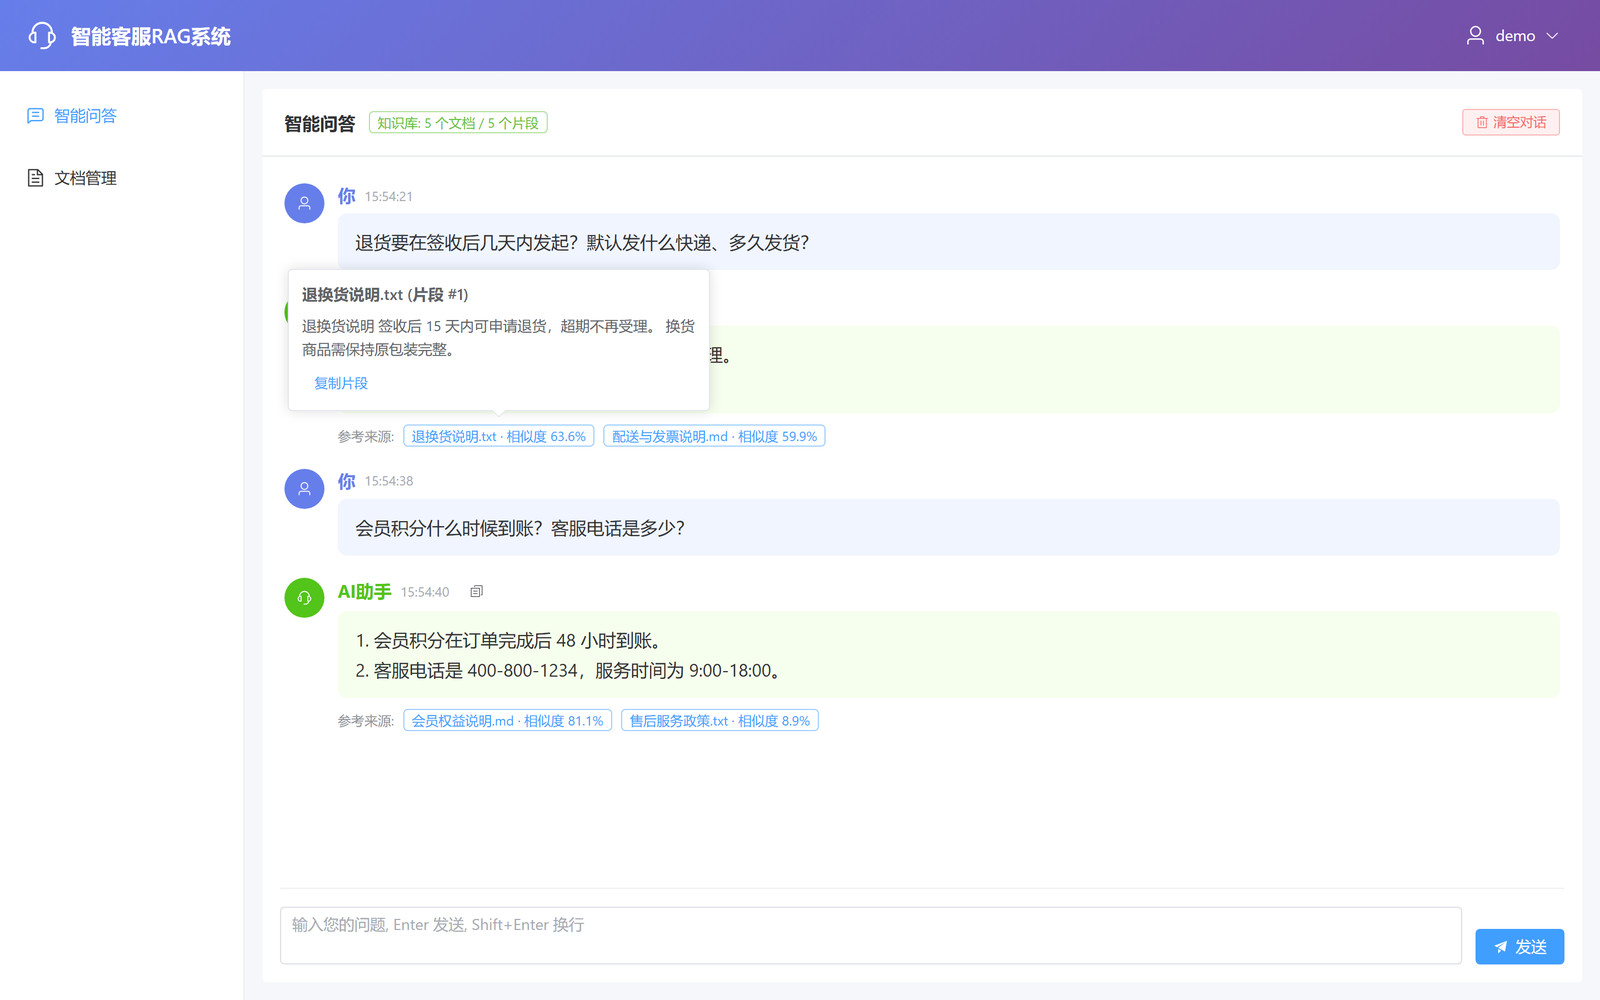
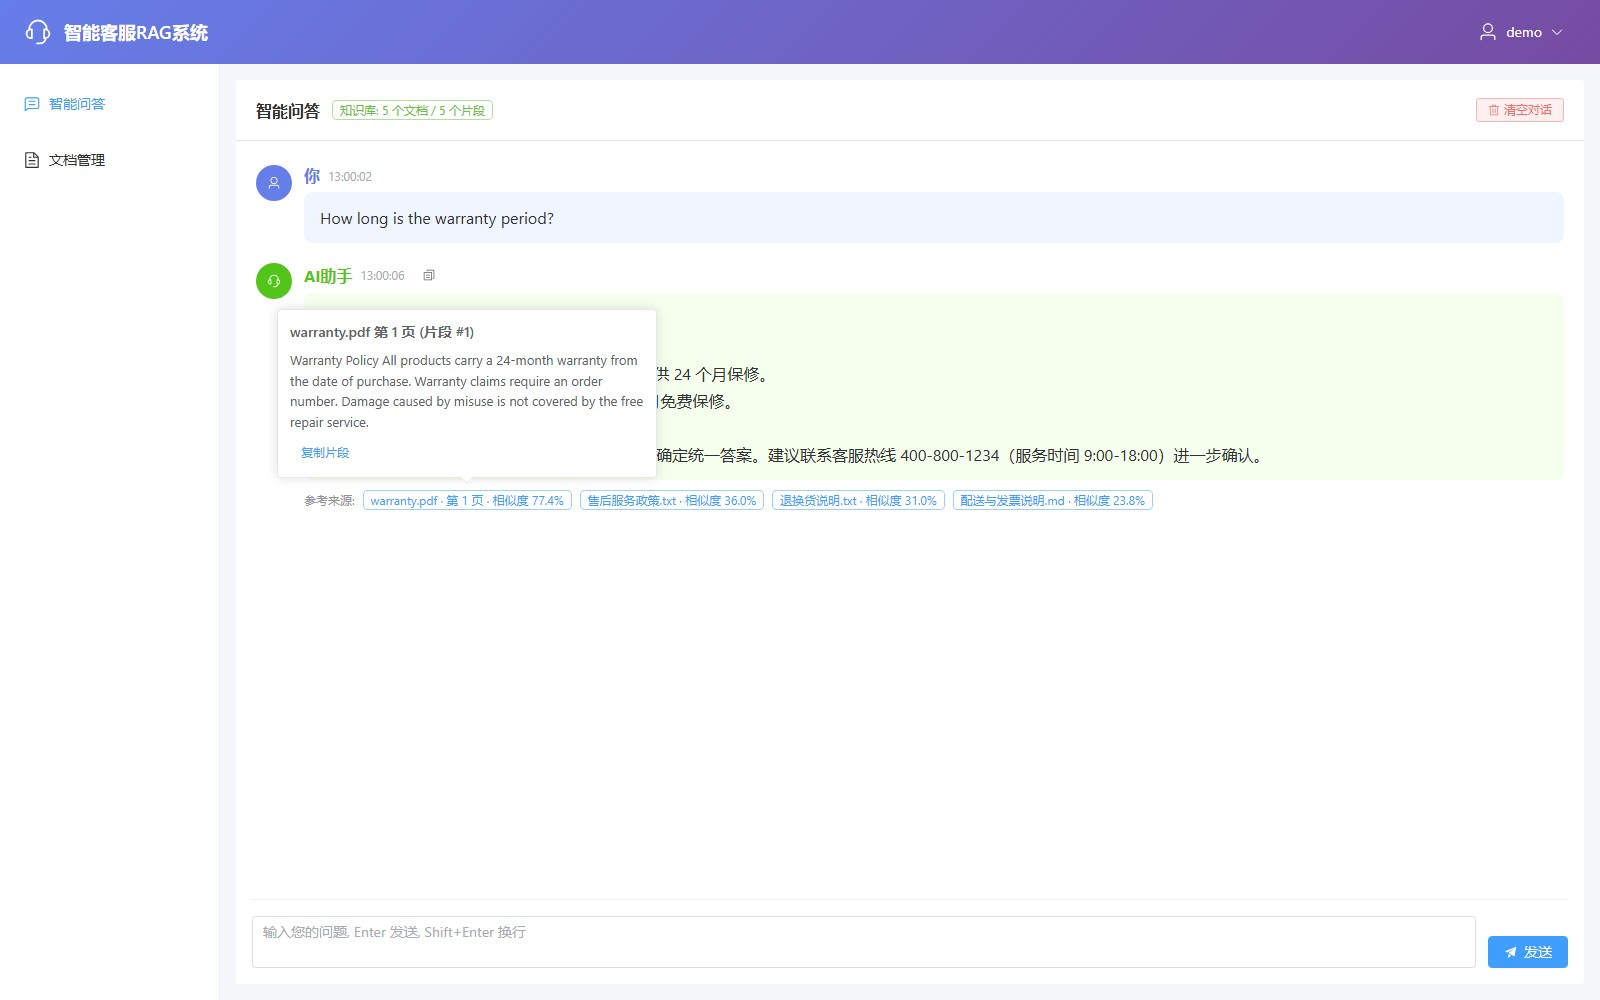
feat(rag): 片段保留页码元数据, 检索结果可回溯原文位置(PDF 按页解析与切分); 来源标签显示第 N 页

diff --git a/frontend/src/components/ChatInterface.vue b/frontend/src/components/ChatInterface.vue
@@ -69,12 +69,12 @@
               >
                 <template #reference>
                   <el-tag type="primary" effect="plain" size="small" class="source-tag">
-                    {{ source.filename || '文档片段' }} · 相似度 {{ (source.score * 100).toFixed(1) }}%
+                    {{ source.filename || '文档片段' }}<template v-if="source.page"> · 第 {{ source.page }} 页</template> · 相似度 {{ (source.score * 100).toFixed(1) }}%
                   </el-tag>
                 </template>
                 <div class="source-popover">
                   <div class="source-popover-title">
-                    {{ source.filename || '文档片段' }} (片段 #{{ (source.chunk_index || 0) + 1 }})
+                    {{ source.filename || '文档片段' }}<template v-if="source.page"> 第 {{ source.page }} 页</template> (片段 #{{ (source.chunk_index || 0) + 1 }})
                   </div>
                   <div class="source-popover-text">{{ source.text }}</div>
                   <el-button text type="primary" size="small" @click="handleCopy(source.text)">复制片段</el-button>

diff --git a/backend/app/services/rag.py b/backend/app/services/rag.py
@@ -8,7 +8,7 @@ import math
 import threading
 import uuid
 from collections import Counter
-from typing import Dict, List, Optional
+from typing import Dict, List, Optional, Tuple
 
 from app.core.config import settings
 from app.services.embeddings import BaseEmbeddings, build_embeddings
@@ -127,26 +127,38 @@ class RAGService:
     # ==================== 写入 ====================
     def add_document(self, text: str, metadata: dict) -> List[str]:
         """切分、向量化并写入文档, 返回片段ID列表"""
+        return self.add_document_pages([(None, text)], metadata)
+
+    def add_document_pages(
+        self, pages: List[Tuple[Optional[int], str]], metadata: dict
+    ) -> List[str]:
+        """
+        按页切分、向量化并写入文档, 返回片段ID列表。
+        片段不跨页, 因此每块都能精确对应一个页码(page), 便于检索结果回溯原文位置。
+        """
         self.ensure_ready()
         assert self.embeddings is not None and self.vector_store is not None
 
-        chunks = self.splitter.split_text(text)
-        if not chunks:
+        per_chunk: List[Tuple[Optional[int], str]] = []
+        for page_number, page_text in pages:
+            if not page_text or not page_text.strip():
+                continue
+            for chunk in self.splitter.split_text(page_text):
+                per_chunk.append((page_number, chunk))
+
+        if not per_chunk:
             raise ValueError("文档内容为空，无法切分")
 
+        chunks = [chunk for _, chunk in per_chunk]
         vectors = self.embeddings.embed_documents(chunks)
         ids = [str(uuid.uuid4()) for _ in chunks]
-        payloads = []
         total = len(chunks)
-        for index, (chunk, _vector) in enumerate(zip(chunks, vectors)):
-            payloads.append({
-                "text": chunk,
-                "metadata": {
-                    **metadata,
-                    "chunk_index": index,
-                    "chunk_total": total,
-                },
-            })
+        payloads = []
+        for index, (page_number, chunk) in enumerate(per_chunk):
+            chunk_metadata = {**metadata, "chunk_index": index, "chunk_total": total}
+            if page_number is not None:
+                chunk_metadata["page"] = int(page_number)
+            payloads.append({"text": chunk, "metadata": chunk_metadata})
 
         self.vector_store.upsert(ids, vectors, payloads)
         self._rebuild_lexical_index()
@@ -254,6 +266,7 @@ class RAGService:
                     "vector_score": round(float(vector_score), 4),
                     "keyword_score": round(float(keyword_score), 4),
                     "filename": metadata.get("source", ""),
+                    "page": metadata.get("page"),
                     "chunk_index": int(metadata.get("chunk_index", 0)),
                     "text": clean_preview(document.get("text", ""), 300),
                     "full_text": document.get("text", ""),
@@ -317,6 +330,7 @@ class RAGService:
                 "score": item["score"],
                 "filename": item.get("filename", ""),
                 "text": item.get("text", ""),
+                "page": item.get("page"),
                 "chunk_index": item.get("chunk_index", 0),
             }
             for item in results

diff --git a/backend/app/services/document.py b/backend/app/services/document.py
@@ -119,17 +119,23 @@ class DocumentService:
         return file_path, file_hash
 
     # ==================== 解析 ====================
-    async def parse_pdf(self, file_path: Path) -> str:
-        def _read() -> str:
-            parts = []
+    async def parse_pdf_pages(self, file_path: Path) -> List[Tuple[int, str]]:
+        """按页解析 PDF, 返回 [(页码, 文本), ...], 页码从 1 开始"""
+
+        def _read() -> List[Tuple[int, str]]:
+            pages: List[Tuple[int, str]] = []
             with pymupdf.open(file_path) as document:
-                for page in document:
-                    parts.append(page.get_text())
-            return "\n".join(parts)
+                for number, page in enumerate(document, start=1):
+                    pages.append((number, page.get_text()))
+            return pages
 
         import asyncio
 
         return await asyncio.to_thread(_read)
+
+    async def parse_pdf(self, file_path: Path) -> str:
+        pages = await self.parse_pdf_pages(file_path)
+        return "\n".join(text for _, text in pages)
 
     async def parse_txt(self, file_path: Path) -> str:
         for encoding in ("utf-8", "utf-8-sig", "gb18030", "latin-1"):
@@ -142,18 +148,27 @@ class DocumentService:
         async with aiofiles.open(file_path, "r", encoding="utf-8", errors="ignore") as fp:
             return await fp.read()
 
-    async def parse_document(self, file_path: Path, filename: str) -> str:
+    async def parse_document_pages(
+        self, file_path: Path, filename: str
+    ) -> List[Tuple[Optional[int], str]]:
+        """
+        解析文档并保留页码: PDF 返回 [(页码, 文本), ...]; TXT/MD 无页概念, 返回 [(None, 文本)]。
+        """
         extension = self._get_file_extension(filename)
         if extension == ".pdf":
-            text = await self.parse_pdf(file_path)
+            pages: List[Tuple[Optional[int], str]] = list(await self.parse_pdf_pages(file_path))
         elif extension in (".txt", ".md"):
-            text = await self.parse_txt(file_path)
+            pages = [(None, await self.parse_txt(file_path))]
         else:
             raise ValueError(f"不支持的文件格式: {extension}")
 
-        if not text or not text.strip():
+        if not any(text and text.strip() for _, text in pages):
             raise ValueError("文档解析结果为空，请确认文件内容")
-        return text
+        return pages
+
+    async def parse_document(self, file_path: Path, filename: str) -> str:
+        pages = await self.parse_document_pages(file_path, filename)
+        return "\n".join(text for _, text in pages)
 
     # ==================== 记录管理 ====================
     def register_document(

diff --git a/backend/app/api/documents.py b/backend/app/api/documents.py
@@ -66,7 +66,7 @@ async def upload_document(
         return _to_response(existing)
 
     try:
-        text = await document_service.parse_document(file_path, filename)
+        pages = await document_service.parse_document_pages(file_path, filename)
     except ValueError as exc:
         await run_in_threadpool(document_service.delete_path, file_path)
         raise HTTPException(status_code=status.HTTP_400_BAD_REQUEST, detail=str(exc)) from exc
@@ -86,7 +86,7 @@ async def upload_document(
     }
 
     try:
-        chunk_ids = await run_in_threadpool(rag_service.add_document, text, metadata)
+        chunk_ids = await run_in_threadpool(rag_service.add_document_pages, pages, metadata)
     except Exception:  # noqa: BLE001
         await run_in_threadpool(document_service.delete_path, file_path)
         logger.exception("文档入库失败")

diff --git a/backend/app/models/schemas.py b/backend/app/models/schemas.py
@@ -36,6 +36,7 @@ class SourceItem(BaseModel):
     score: float
     filename: str = ""
     text: str = ""
+    page: Optional[int] = None
     chunk_index: int = 0
 
 

diff --git a/README.md b/README.md
@@ -12,7 +12,7 @@
 
 ![智能问答](docs/screenshots/03-chat.jpg)
 
-**引用溯源** —— 鼠标悬停来源标签即可查看原文片段, 支持一键复制
+**引用溯源** —— 来源标签标注「文件名 · 第 N 页 · 相似度」, 鼠标悬停查看原文片段, 支持一键复制
 
 ![引用来源](docs/screenshots/04-source-popover.jpg)
 
@@ -26,10 +26,11 @@
   - 登录支持「记住我」: 勾选写入 `localStorage`(关浏览器仍登录), 不勾选写入 `sessionStorage`(关标签页即失效)
   - 注册页可查看「用户协议」与「隐私政策」完整文本
 - 文档管理: 上传 PDF / TXT / MD, 内容去重, 列表 / 删除 / 一键清空(**按用户隔离**)
-  - 前端校验文件类型与大小(超 10MB 或非 PDF/TXT/MD 直接拦截并提示), 后端二次校验
+  - PDF **按页解析与切分**, 每个片段记录所在页码; TXT/MD 无页概念(页码为空)
+  - 前端拦截非 PDF/TXT/MD 类型, 后端二次校验类型与 10MB 大小上限
   - 「刷新」按钮同时刷新文档列表与知识库统计, 数字不会停留在旧值
 - 智能问答: 混合检索(向量相似度 + BM25 关键词) + 大模型生成, 返回参考来源与相似度
-  - 参考来源标签鼠标悬停显示原文片段, 支持「复制片段」; 每条回答支持「复制回答」
+  - 参考来源标签标注**来源文件与页码**(PDF), 鼠标悬停显示原文片段, 支持「复制片段」; 每条回答支持「复制回答」
 - 多轮对话: 按会话保存上下文, 支持清空会话历史
   - 刷新页面后自动从服务端恢复本轮对话(含参考来源), 不会「凭空消失」
 - 向量库: 默认内置本地向量库(零依赖, 无需 Docker); 配置后可切换为 Qdrant 服务
